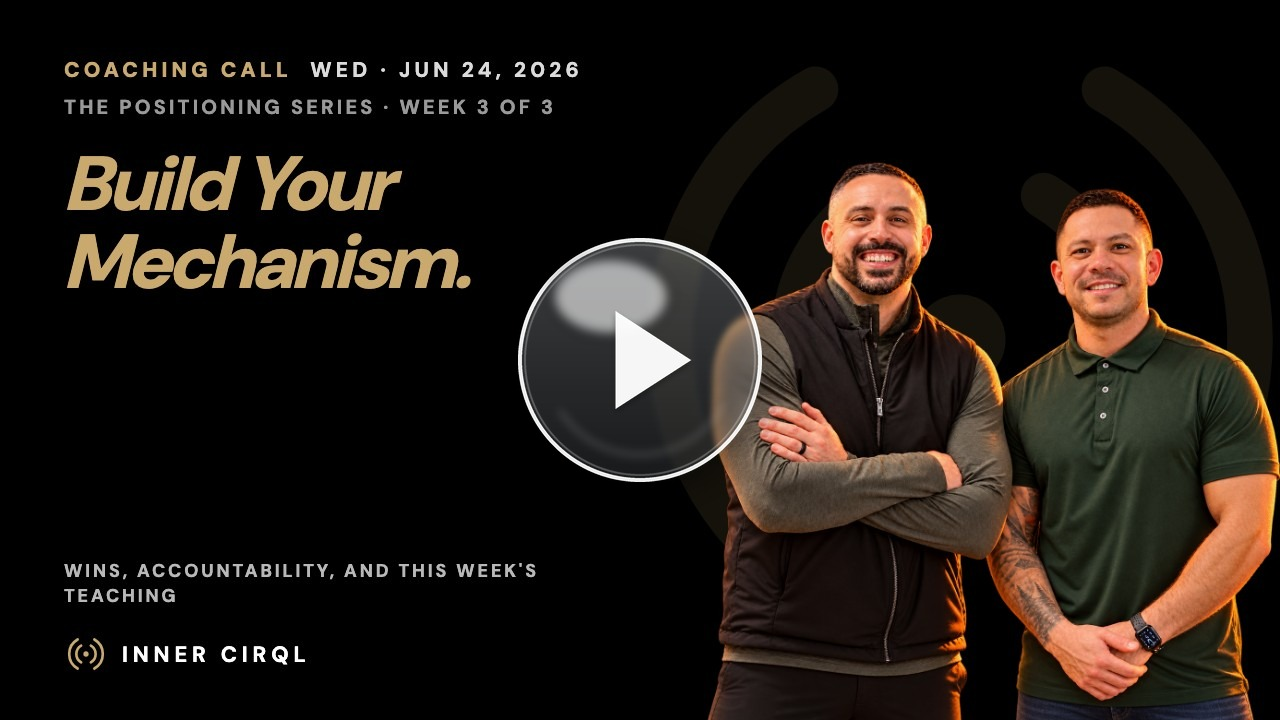
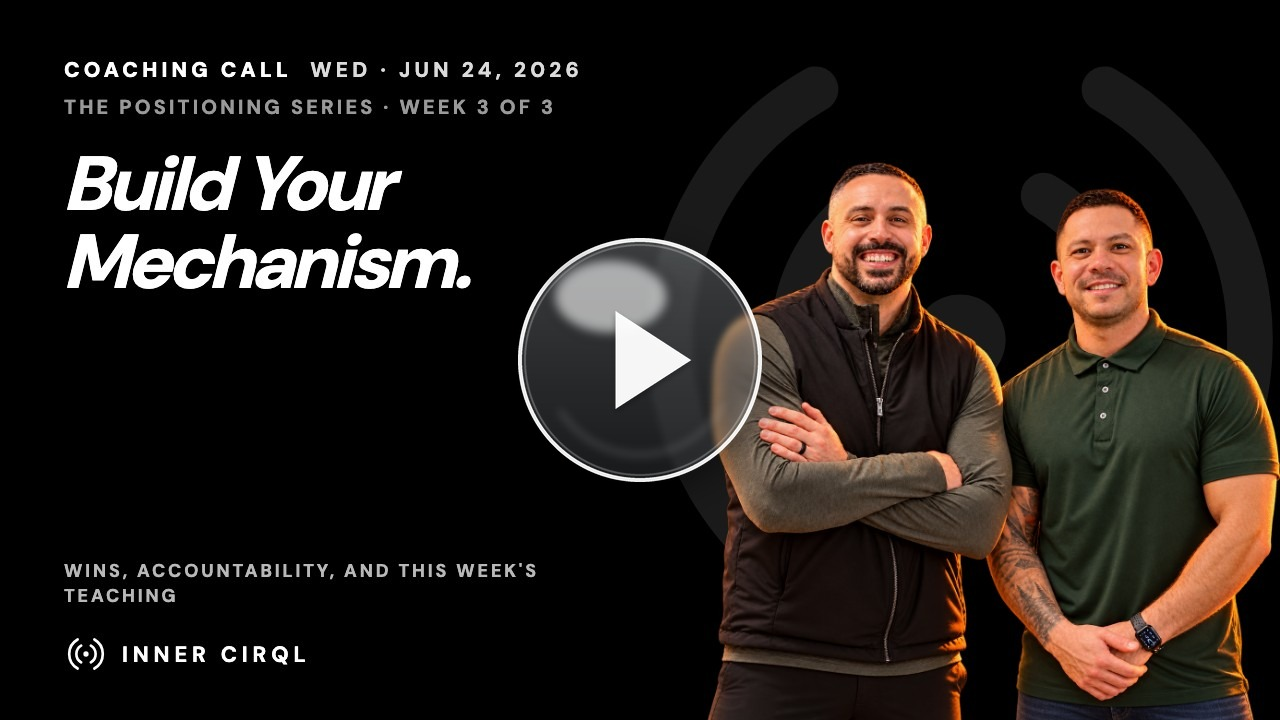
Training: retitle Jun 24 coaching call (The Positioning Series · Week 3 · Mechanism.) + thumbnail

Changed region(s): [[0.0312, 0.2139, 0.375, 0.3972], [0.0312, 0.0917, 0.2188, 0.1222], [0.0312, 0.8861, 0.0938, 0.9167]]

diff --git a/training/index.html b/training/index.html
@@ -94,6 +94,26 @@ window.LIBRARY = {
   ],
   "items": [
     {
+      "id": "v-2026-06-24",
+      "date": "2026-06-24",
+      "dateLabel": "June 24, 2026",
+      "series": "positioning",
+      "week": 3,
+      "name": "Mechanism.",
+      "title": "The Positioning Series · Week 3 · Mechanism.",
+      "headline": [
+        "Build Your",
+        "Mechanism."
+      ],
+      "sub": "The Positioning Series · Week 3 of 3",
+      "desc": "The Positioning Series, Week 3: Build Your Mechanism, the capstone. Wins, accountability, and the teaching segment, edited replay.",
+      "href": "https://coach.theinnercirql.com/2026-06-24/",
+      "pdf": null,
+      "slides": null,
+      "embed": "https://www.youtube.com/embed/JC9sWRmPtWw?rel=0&modestbranding=1",
+      "thumb": "/assets/thumbs/jun-24-call.jpg?v=29920162"
+    },
+    {
       "id": "v-2026-06-17",
       "date": "2026-06-17",
       "dateLabel": "June 17, 2026",
@@ -532,26 +552,6 @@ window.LIBRARY = {
       "slides": null,
       "embed": "https://www.youtube.com/embed/pFWM0IjAvOE?rel=0&modestbranding=1",
       "thumb": "/assets/thumbs/jul-1-call.jpg?v=29920144"
-    },
-    {
-      "id": "v-2026-06-24",
-      "date": "2026-06-24",
-      "dateLabel": "June 24, 2026",
-      "series": "positioning",
-      "week": 3,
-      "name": "Mechanism.",
-      "title": "The Positioning Series · Week 3 · Mechanism.",
-      "headline": [
-        "Build Your",
-        "Mechanism."
-      ],
-      "sub": "The Positioning Series · Week 3 of 3",
-      "desc": "The Positioning Series, Week 3: Build Your Mechanism, the capstone. Wins, accountability, and the teaching segment, edited replay.",
-      "href": "https://coach.theinnercirql.com/2026-06-24/",
-      "pdf": null,
-      "slides": null,
-      "embed": "https://www.youtube.com/embed/JC9sWRmPtWw?rel=0&modestbranding=1",
-      "thumb": "/assets/thumbs/jun-24-call.jpg?v=29920143"
     },
     {
       "id": "t-become-a-listing-magnet",
